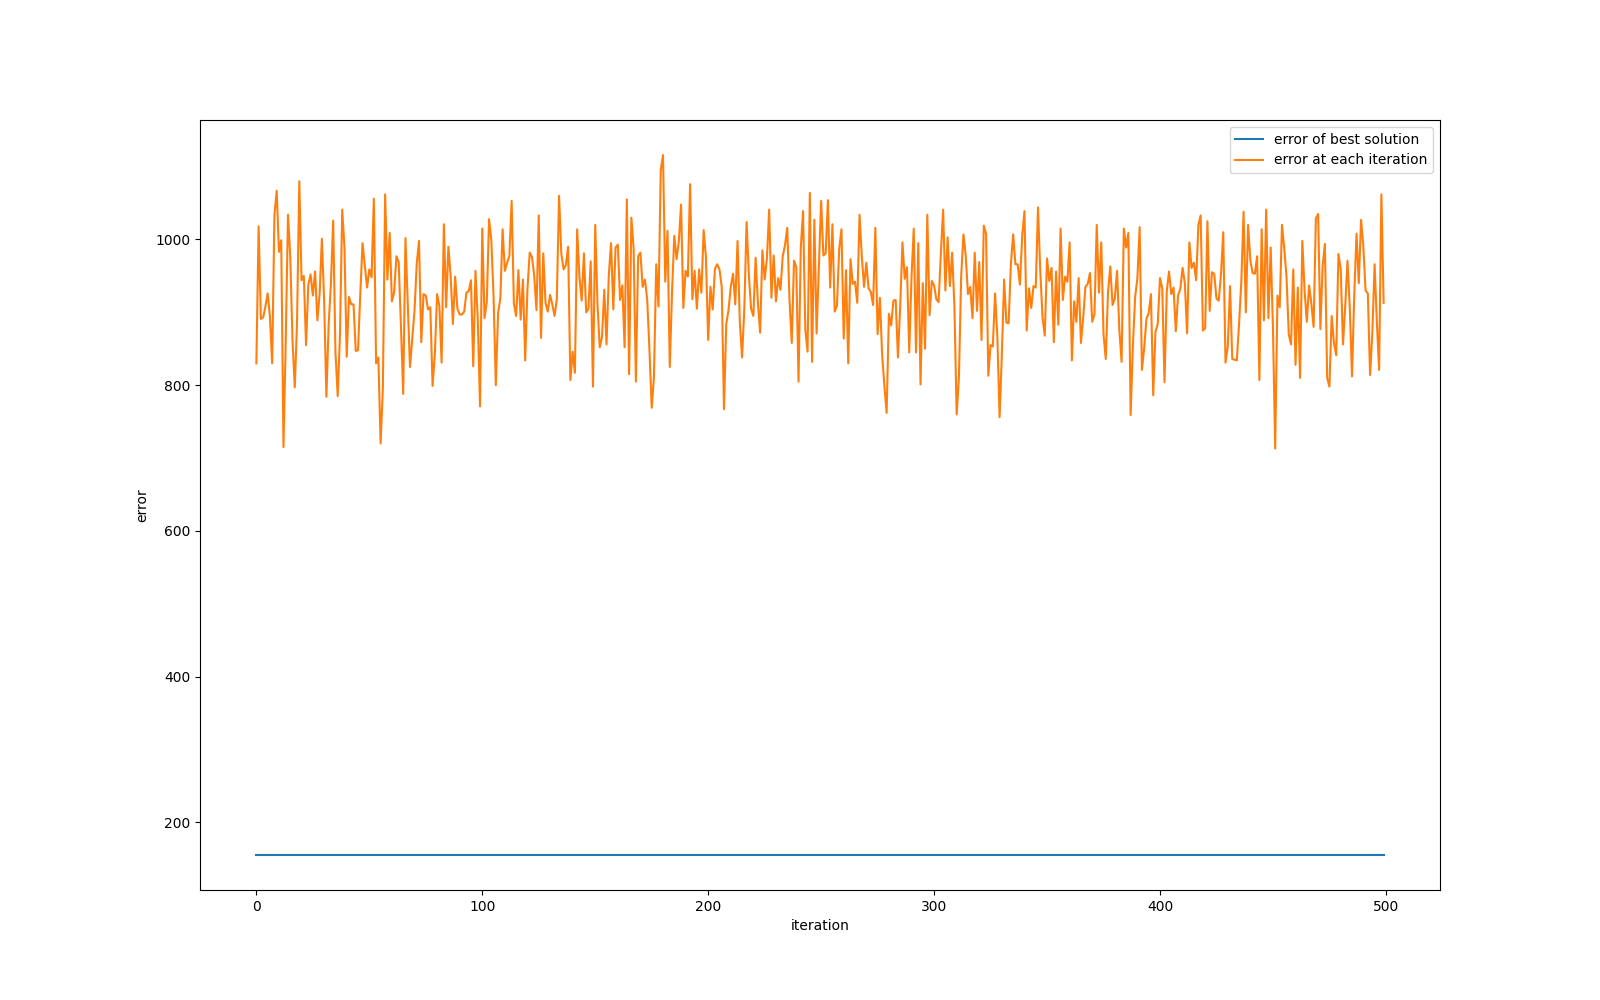
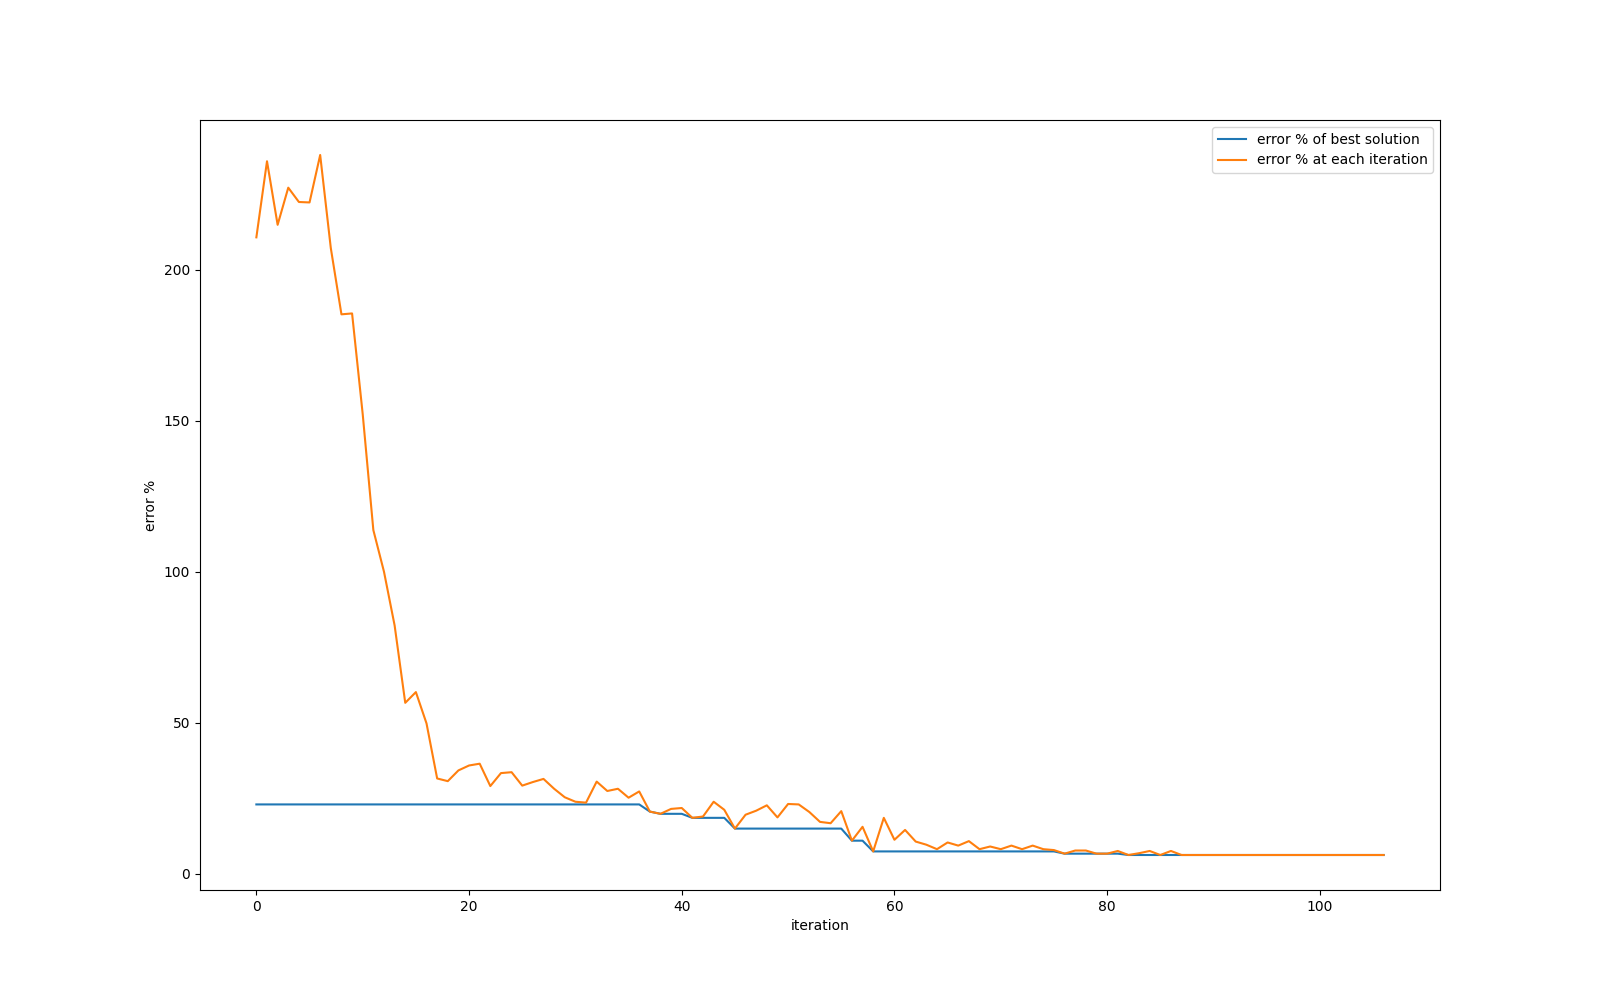
update

diff --git a/Testing/aco.py b/Testing/aco.py
@@ -224,7 +224,13 @@ class Ant:
         dist = dist_list.copy()
 
         if update == 'best':
-            return C_best
+            C_ans = np.zeros((n,n))
+
+            for i in range(0,len(C_best),1):
+                C_ans = C_ans + C_best[i]
+            
+            return C_ans
+
         elif update == 'all':
 
             C_ans = np.zeros((n,n))
@@ -252,8 +258,14 @@ class Ant:
             num = int(np.round(len(C)*ratio))
             C_ans = np.zeros((n,n))
 
-            for i in range(0,num,1):
-                C_ans = C_ans + C[i]
+            for i in range(0,len(C),1):
+
+                if i < num:
+                    C_ans = C_ans + 2*C[i]
+                else:
+                    C_ans = C_ans + C[i]
+            
+
             
             return C_ans
 
@@ -269,6 +281,39 @@ class Ant:
         ans = (1-s)*Pheromone + update_C
 
         return ans
+    
+    def global_elite(self,gelite,distelite,temp_dist,temp_C,n_ants,ratio):
+
+        m = int(round(n_ants*ratio))
+        cElite = gelite.copy()
+        distElite = distelite.copy()
+        C = temp_C.copy()
+        dist = temp_dist.copy()
+
+        if len(cElite)==0:
+            cElite.append(C)
+            distElite.append(dist)
+            return cElite,distElite
+
+        else:
+            k = len(cElite) - 1
+
+            while k>=0:
+
+                if dist<distElite[k]:
+                    k-=1
+                else:
+                    break
+            
+            cElite.insert(k+1,C)
+            distElite.insert(k+1,dist)
+
+            if len(cElite)>m:
+                cElite.pop(-1)
+                distElite.pop(-1)
+
+            return cElite,distElite
+
 
     def ACO(self,Distance,p,alpha,beta,n,k,Q,random_loc,update,ratio,max_rep,tol,log,plot,opt):
         """
@@ -300,6 +345,8 @@ class Ant:
         plot_error1 = []
         plot_error2 = []
         max_iter = 0
+        cElite = []
+        distElite = []
 
         #looping through each generation#
         for i in range(0,n,1):
@@ -323,6 +370,10 @@ class Ant:
 
                 #adds to list if solution is valid#
                 if valid == True:
+
+                    #update global values#
+                    if update =='best':
+                        cElite,distElite = self.global_elite(cElite,distElite,dist_temp,C_temp,k,ratio)
                     
                     #updates best solution in current generation#
                     if (len(dist_list) == 0) or (dist_temp < iter_dist):
@@ -352,15 +403,15 @@ class Ant:
 
             #plots solution#
             if plot == True and iter_dist!=None and min_dist!=None:
-                plot_error1.append(np.abs(min_dist-opt))
-                plot_error2.append(np.abs(iter_dist-opt))
+                plot_error1.append((np.abs(min_dist-opt)/opt)*100)
+                plot_error2.append((np.abs(iter_dist-opt)/opt)*100)
 
             #exit if solution the same#
             if rep == max_rep:
                 break
             
             #getting C matrix based on update rule#
-            C_update = self.update_C(min_C, C_list, dist_list, update, len(A),k, ratio)
+            C_update = self.update_C(cElite, C_list, dist_list, update, len(A),k, ratio)
 
             #update pheromone matrix#
             P = self.updatePheromone(p, P,C_update, i, n)
@@ -368,10 +419,10 @@ class Ant:
         if plot == True:
             plt.rcParams['figure.figsize'] = (16,10)
             x_axis = list(range(max_iter))
-            plt.plot(x_axis,plot_error1,label = 'error of best solution')
-            plt.plot(x_axis,plot_error2,label="error at each iteration")
+            plt.plot(x_axis,plot_error1,label = r'error % of best solution')
+            plt.plot(x_axis,plot_error2,label= r"error % at each iteration")
             plt.xlabel('iteration')
-            plt.ylabel('error')
+            plt.ylabel(r'error %')
             plt.legend(loc='best')
             plt.savefig('output.png')
             plt.close()

diff --git a/aco.py b/aco.py
@@ -224,7 +224,13 @@ class Ant:
         dist = dist_list.copy()
 
         if update == 'best':
-            return C_best
+            C_ans = np.zeros((n,n))
+
+            for i in range(0,len(C_best),1):
+                C_ans = C_ans + C_best[i]
+            
+            return C_ans
+
         elif update == 'all':
 
             C_ans = np.zeros((n,n))
@@ -252,8 +258,14 @@ class Ant:
             num = int(np.round(len(C)*ratio))
             C_ans = np.zeros((n,n))
 
-            for i in range(0,num,1):
-                C_ans = C_ans + C[i]
+            for i in range(0,len(C),1):
+
+                if i < num:
+                    C_ans = C_ans + 2*C[i]
+                else:
+                    C_ans = C_ans + C[i]
+            
+
             
             return C_ans
 
@@ -269,6 +281,39 @@ class Ant:
         ans = (1-s)*Pheromone + update_C
 
         return ans
+    
+    def global_elite(self,gelite,distelite,temp_dist,temp_C,n_ants,ratio):
+
+        m = int(round(n_ants*ratio))
+        cElite = gelite.copy()
+        distElite = distelite.copy()
+        C = temp_C.copy()
+        dist = temp_dist.copy()
+
+        if len(cElite)==0:
+            cElite.append(C)
+            distElite.append(dist)
+            return cElite,distElite
+
+        else:
+            k = len(cElite) - 1
+
+            while k>=0:
+
+                if dist<distElite[k]:
+                    k-=1
+                else:
+                    break
+            
+            cElite.insert(k+1,C)
+            distElite.insert(k+1,dist)
+
+            if len(cElite)>m:
+                cElite.pop(-1)
+                distElite.pop(-1)
+
+            return cElite,distElite
+
 
     def ACO(self,Distance,p,alpha,beta,n,k,Q,random_loc,update,ratio,max_rep,tol,log,plot,opt):
         """
@@ -300,6 +345,8 @@ class Ant:
         plot_error1 = []
         plot_error2 = []
         max_iter = 0
+        cElite = []
+        distElite = []
 
         #looping through each generation#
         for i in range(0,n,1):
@@ -323,6 +370,10 @@ class Ant:
 
                 #adds to list if solution is valid#
                 if valid == True:
+
+                    #update global values#
+                    if update =='best':
+                        cElite,distElite = self.global_elite(cElite,distElite,dist_temp,C_temp,k,ratio)
                     
                     #updates best solution in current generation#
                     if (len(dist_list) == 0) or (dist_temp < iter_dist):
@@ -352,15 +403,15 @@ class Ant:
 
             #plots solution#
             if plot == True and iter_dist!=None and min_dist!=None:
-                plot_error1.append(np.abs(min_dist-opt))
-                plot_error2.append(np.abs(iter_dist-opt))
+                plot_error1.append((np.abs(min_dist-opt)/opt)*100)
+                plot_error2.append((np.abs(iter_dist-opt)/opt)*100)
 
             #exit if solution the same#
             if rep == max_rep:
                 break
             
             #getting C matrix based on update rule#
-            C_update = self.update_C(min_C, C_list, dist_list, update, len(A),k, ratio)
+            C_update = self.update_C(cElite, C_list, dist_list, update, len(A),k, ratio)
 
             #update pheromone matrix#
             P = self.updatePheromone(p, P,C_update, i, n)
@@ -368,10 +419,10 @@ class Ant:
         if plot == True:
             plt.rcParams['figure.figsize'] = (16,10)
             x_axis = list(range(max_iter))
-            plt.plot(x_axis,plot_error1,label = 'error of best solution')
-            plt.plot(x_axis,plot_error2,label="error at each iteration")
+            plt.plot(x_axis,plot_error1,label = r'error % of best solution')
+            plt.plot(x_axis,plot_error2,label= r"error % at each iteration")
             plt.xlabel('iteration')
-            plt.ylabel('error')
+            plt.ylabel(r'error %')
             plt.legend(loc='best')
             plt.savefig('output.png')
             plt.close()

diff --git a/Testing/test.py b/Testing/test.py
@@ -3,13 +3,13 @@ from aco import Ant
 model = Ant()
 file_link = 'Data/eil101/eil101.tsp'
 A = model.get_distance_matrix(file_link)
-p = 0.5
+p = -1
 alpha = 1
 beta = 1
 n = 1000
 k = 75
 Q = 1
-dist,path = model.ACO(A,p,alpha,beta,n,k,Q,random_loc=True,update='elite',ratio =0.4,max_rep=20,tol = 0.001,log =True,plot=True,opt=629)
+dist,path = model.ACO(A,p,alpha,beta,n,k,Q,random_loc=True,update='best',ratio =0.4,max_rep=20,tol = 0.001,log =True,plot=True,opt=629)
 #model.get_graph(file_link, path,A)
 
 print('\n============================================\n')
